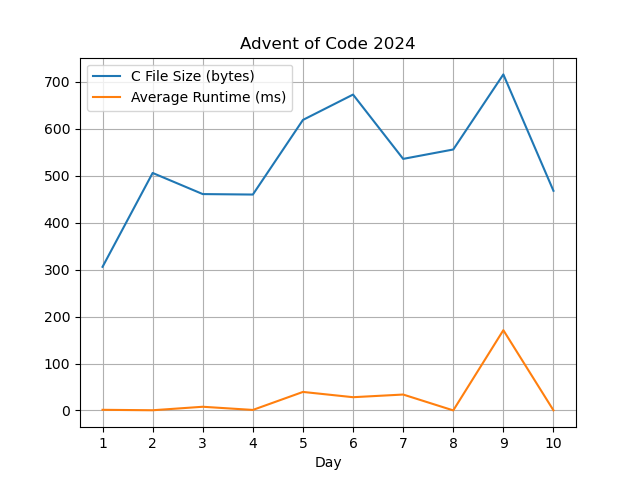
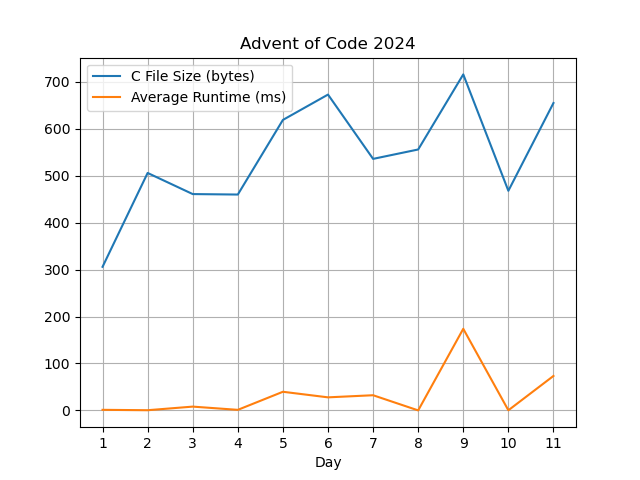
d11

diff --git a/d11.c b/d11.c
@@ -1,0 +1,13 @@
+#include"a.h"
+#define MS 300007
+L k[MS], v[MS];
+L ins(L kk, L vv)_(I i = kk % MS; W(v[i] && k[i] != kk, i = (i + 1) % MS)
+  k[i] = kk; v[i] = vv)
+I get(L kk, L * vv)_(I i = kk % MS, s = i; W(v[i],
+  I(k[i] == kk, *vv = v[i]; R 1) i = (i + 1) % MS; I(i == s, B)) 0)
+L f(L n, int b)_(
+  L k = n * 80 + b, v, dl = ilog10l(n); I(get(k, &v), R v) I(b == 0, R 1)
+  I(n == 0, R ins(k, f(1, b - 1))) I(dl % 2 == 0, L d = pow(10, dl / 2);
+  R ins(k, f(n / d, b - 1) + f(n % d, b - 1))) ins(k, f(n * 2024, b - 1)))
+M(Fp fp = fget("d11.txt"); I i[9], ni = 0; W(scani(fp, &i[ni]), ni++);
+  L s1 = 0, s2 = 0; Fj(ni, s1 += f(i[j], 25), s2 += f(i[j], 75)) resl(s1, s2))

diff --git a/a.h b/a.h
@@ -118,6 +118,8 @@ S C * slurp(C * n) {
 S V resi(I t1, I t2) { printf("T1: %d, T2: %d\n", t1, t2); }
 S V resl(L t1, L t2) { printf("T1: %ld, T2: %ld\n", t1, t2); }
 
+L ilog10l(L n)_(L r = 0; W (n > 0, n /= 10; r++) r)
+
 S I dir8[8][2] = {
   {-1, -1}, {-1, 0}, {-1, 1}, {0, -1}, {0, 1}, {1, -1}, {1, 0}, {1, 1}
 };
